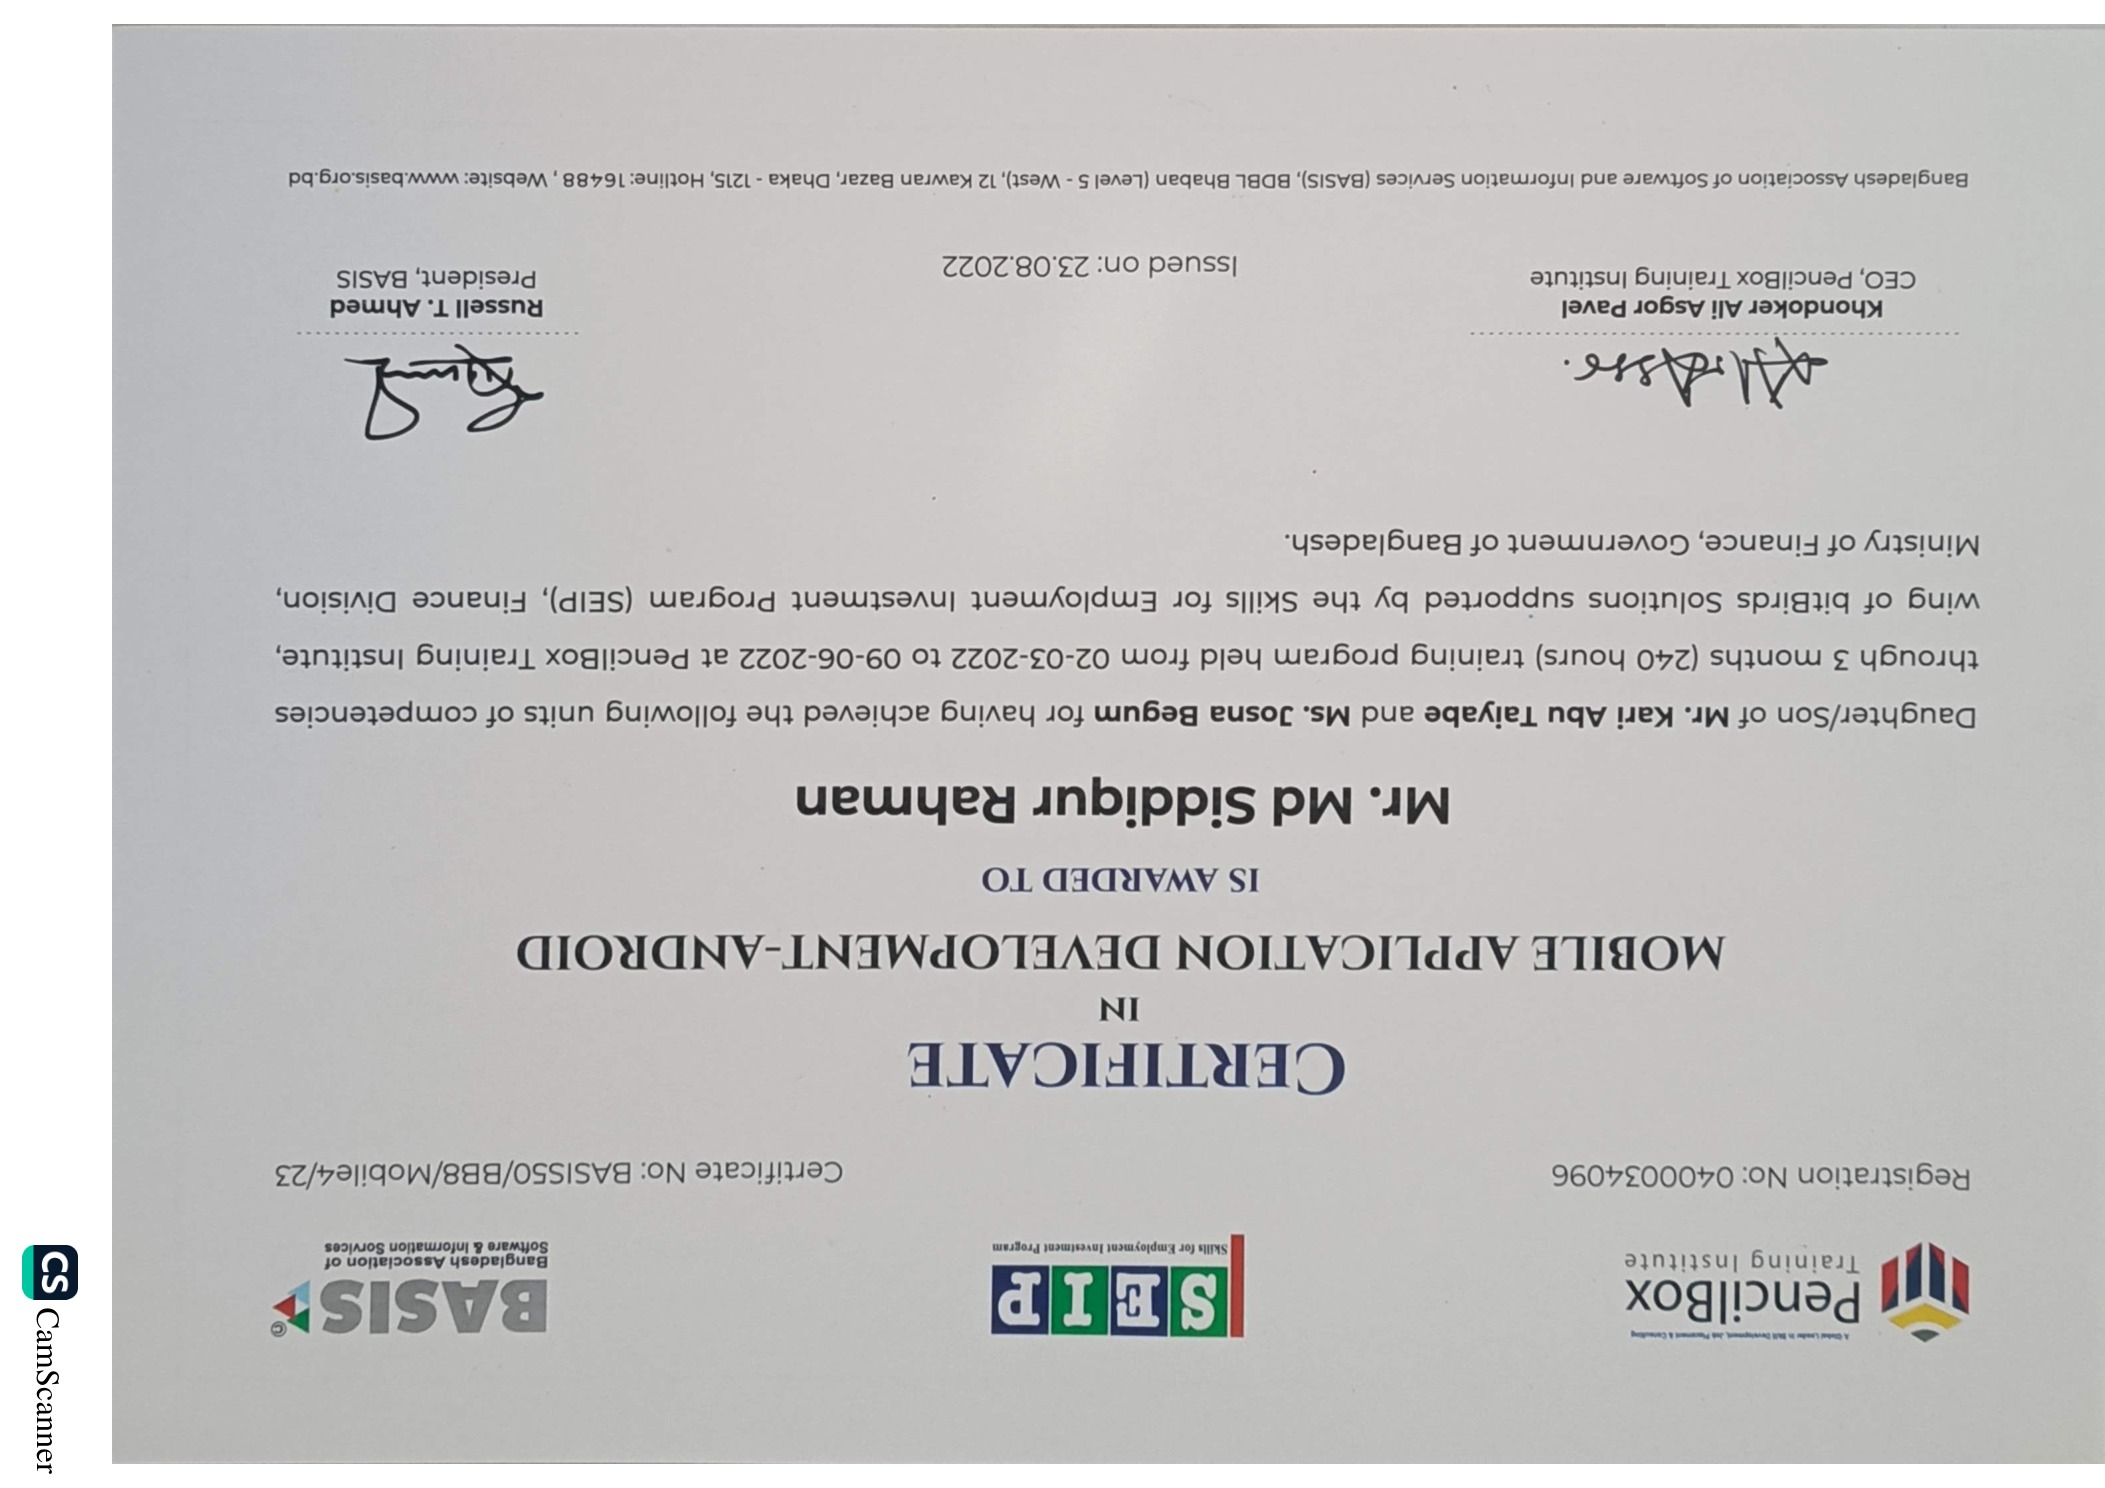
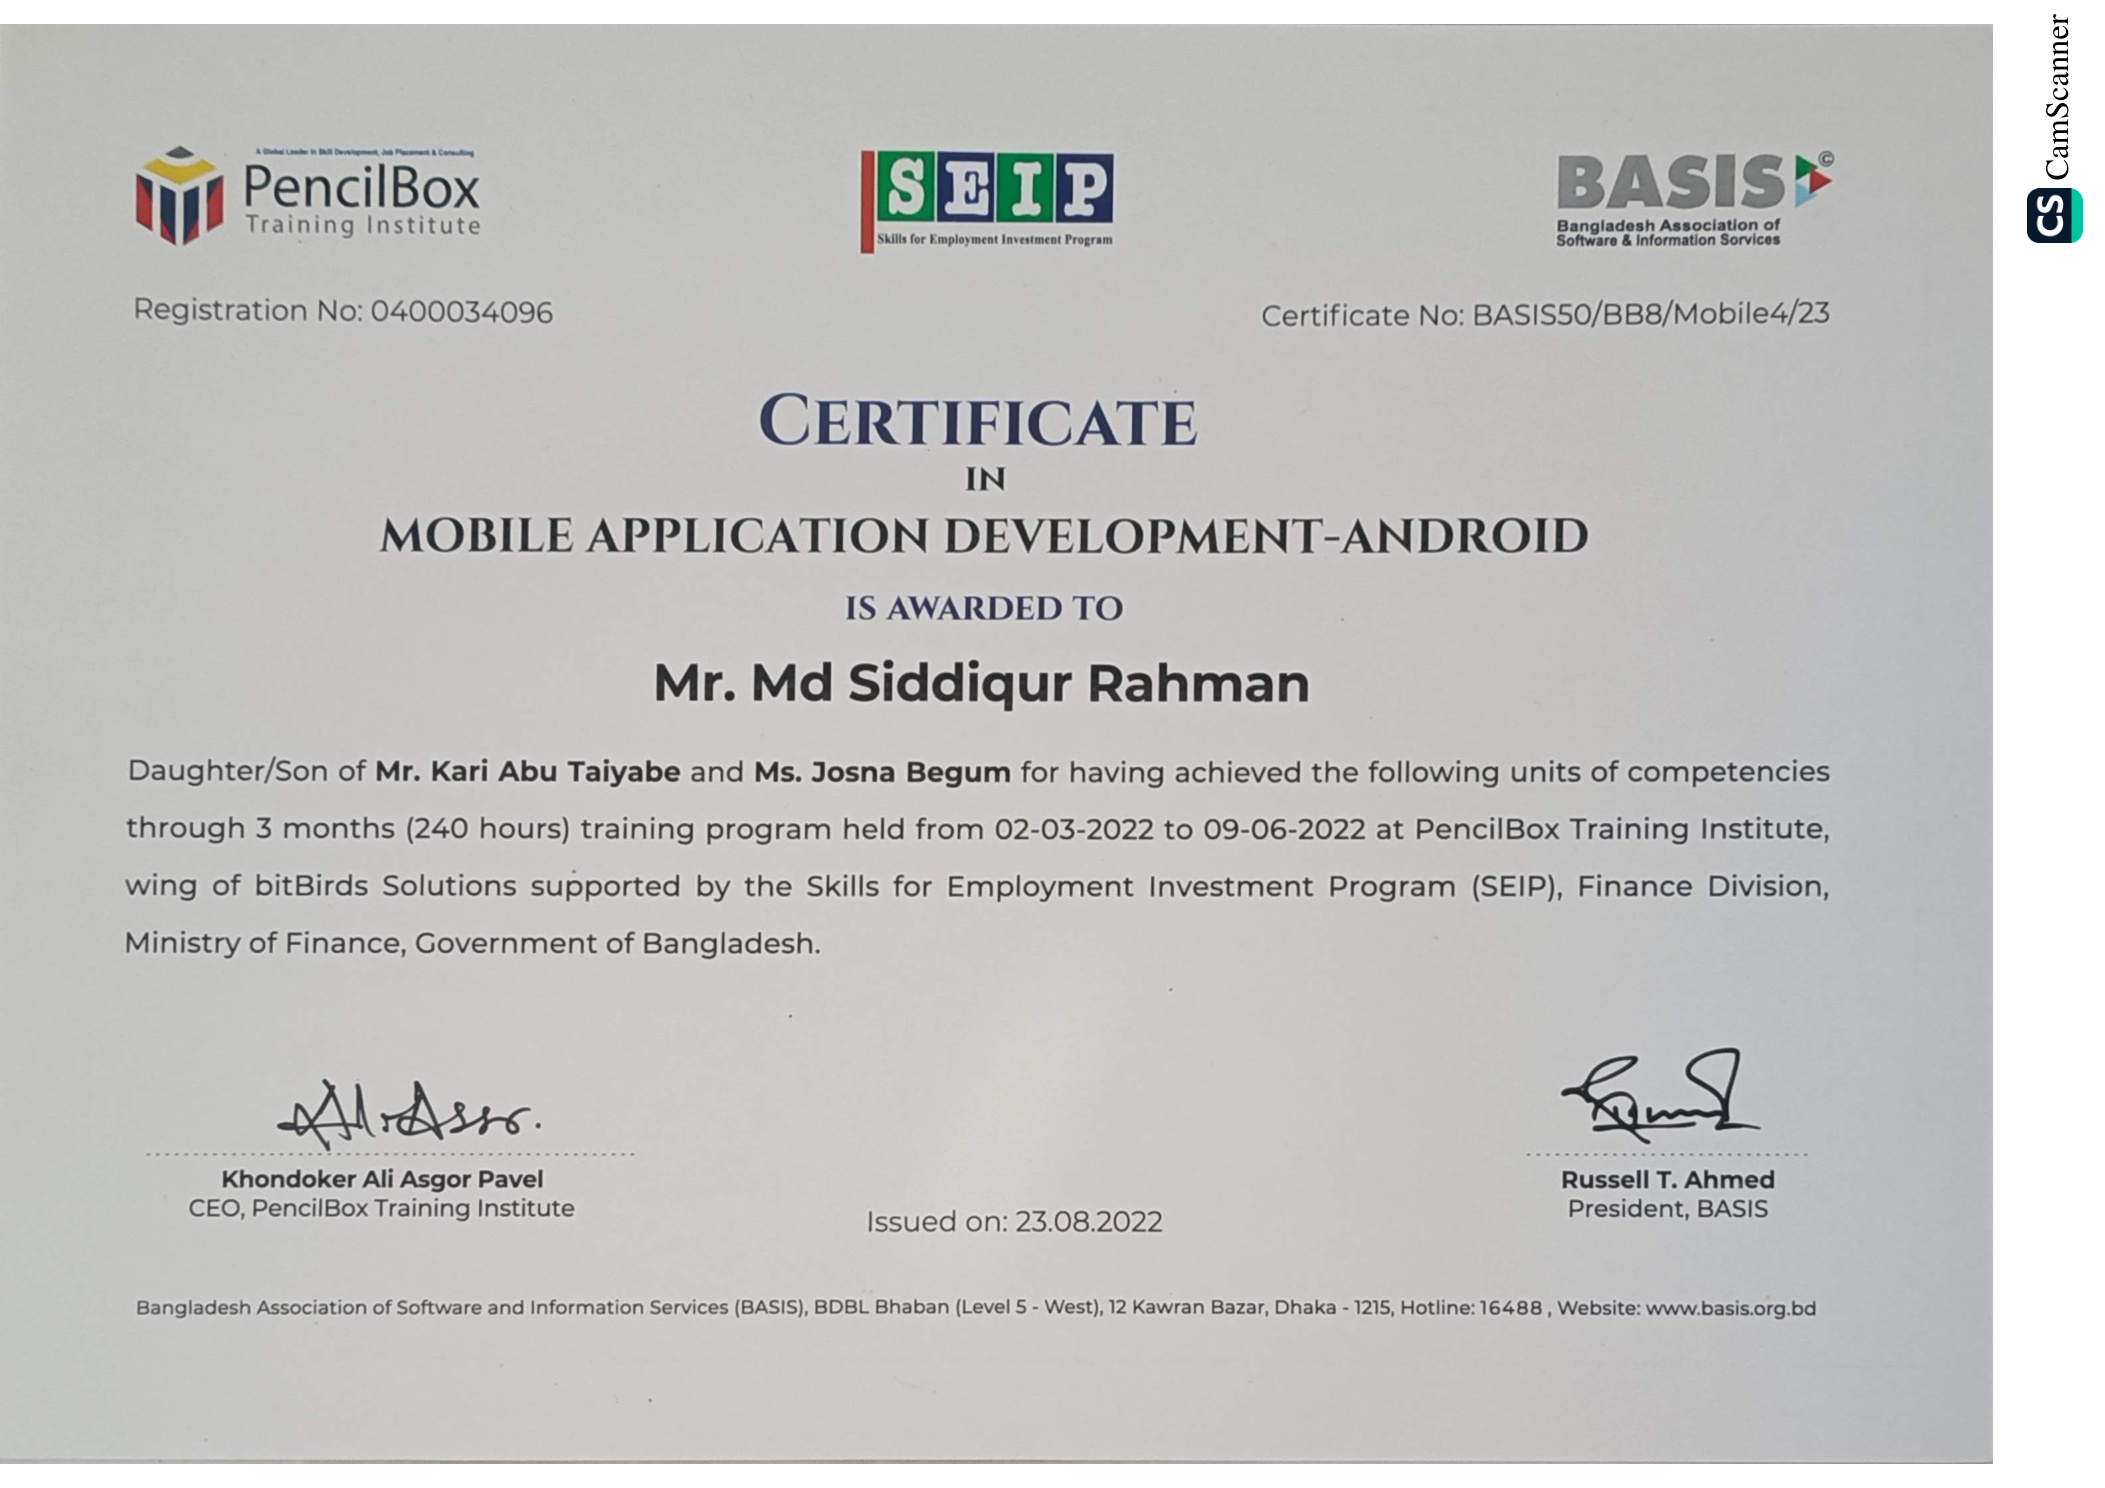
fix: correct cert image orientations and display
- Oracle: portrait (no rotation)
- Android: landscape (-90deg render rotation)
- object-fit:contain with white bg for clean display

Changed region(s): [[0.0, 0.0, 1.0, 0.9892], [0.5249, 0.0, 0.5558, 0.0309]]

diff --git a/index.html b/index.html
@@ -268,7 +268,7 @@ footer{background:var(--bg);border-top:1px solid var(--cb);padding:2.5rem 0;text
 .cert-card{background:var(--card);border:1px solid var(--cb);border-radius:var(--r);overflow:hidden;transition:var(--tr);cursor:pointer;position:relative}
 .cert-card:hover{transform:translateY(-8px);border-color:var(--p);box-shadow:0 20px 50px rgba(0,0,0,.3)}
 .cert-img-wrap{height:190px;overflow:hidden;position:relative;background:linear-gradient(135deg,rgba(123,94,255,.18),rgba(0,212,170,.08))}
-.cert-img-wrap img{width:100%;height:100%;object-fit:contain;padding:8px}
+.cert-img-wrap img{width:100%;height:100%;object-fit:contain;background:#fff;padding:6px}
 .cert-ph{width:100%;height:100%;display:flex;align-items:center;justify-content:center;font-size:5.5rem}
 .cert-ribbon{position:absolute;top:16px;left:0;background:var(--p);color:#fff;font-size:.63rem;font-weight:700;letter-spacing:1px;text-transform:uppercase;padding:5px 16px 5px 12px;border-radius:0 20px 20px 0;z-index:2;box-shadow:0 3px 12px rgba(123,94,255,.45)}
 .cert-ribbon.teal{background:var(--p2);color:#080818;box-shadow:0 3px 12px rgba(0,212,170,.45)}
